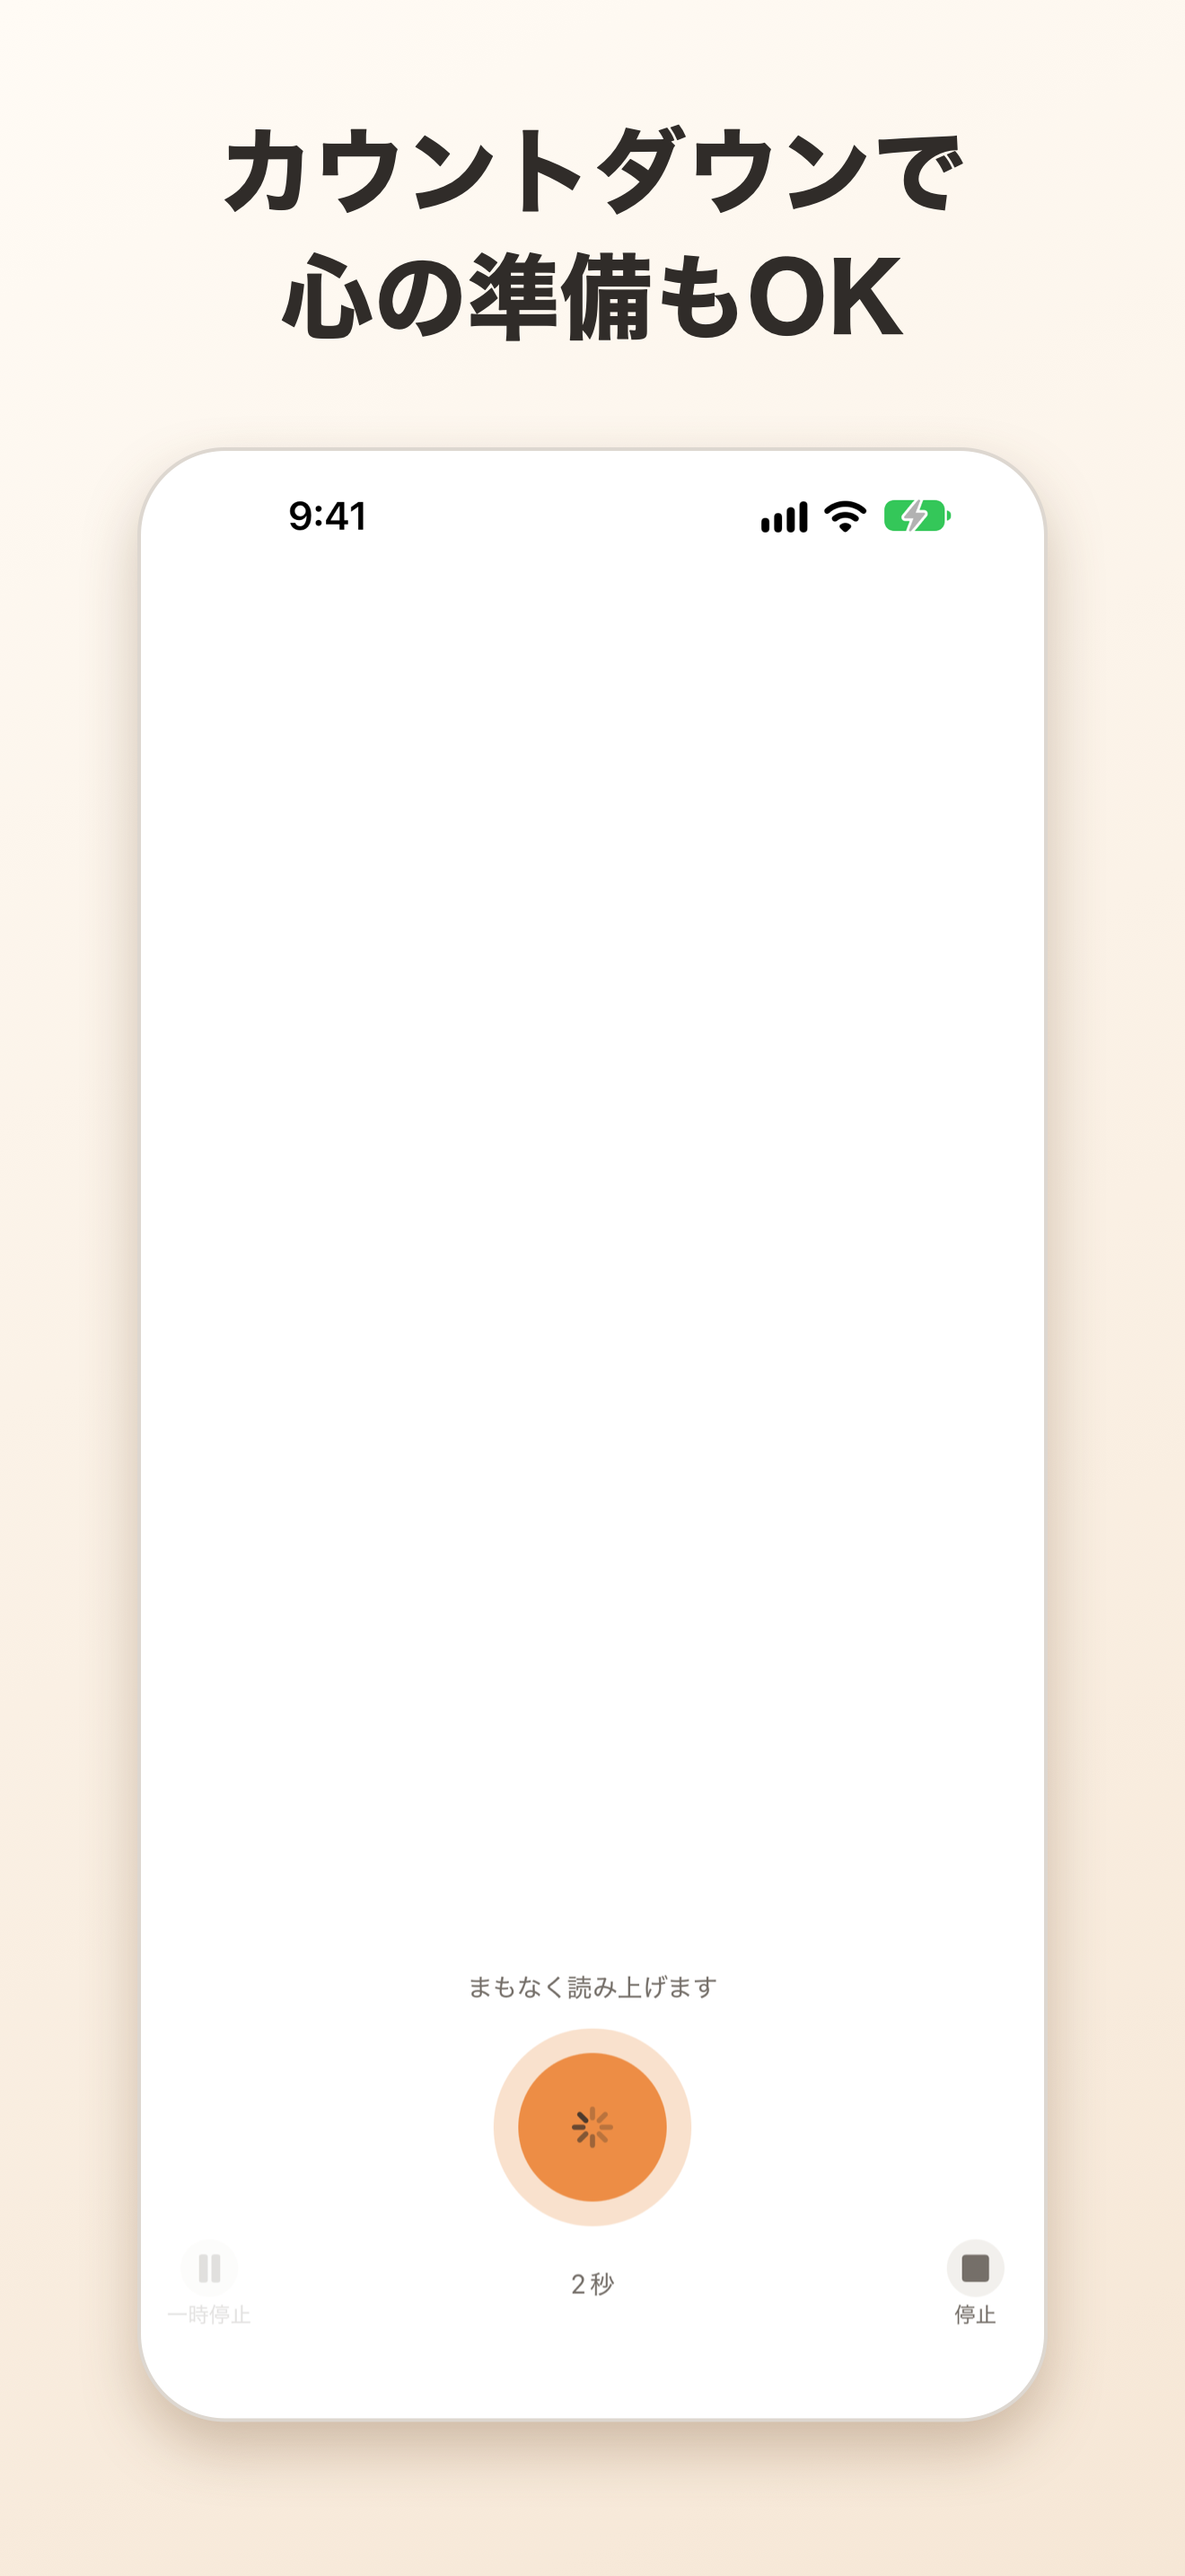
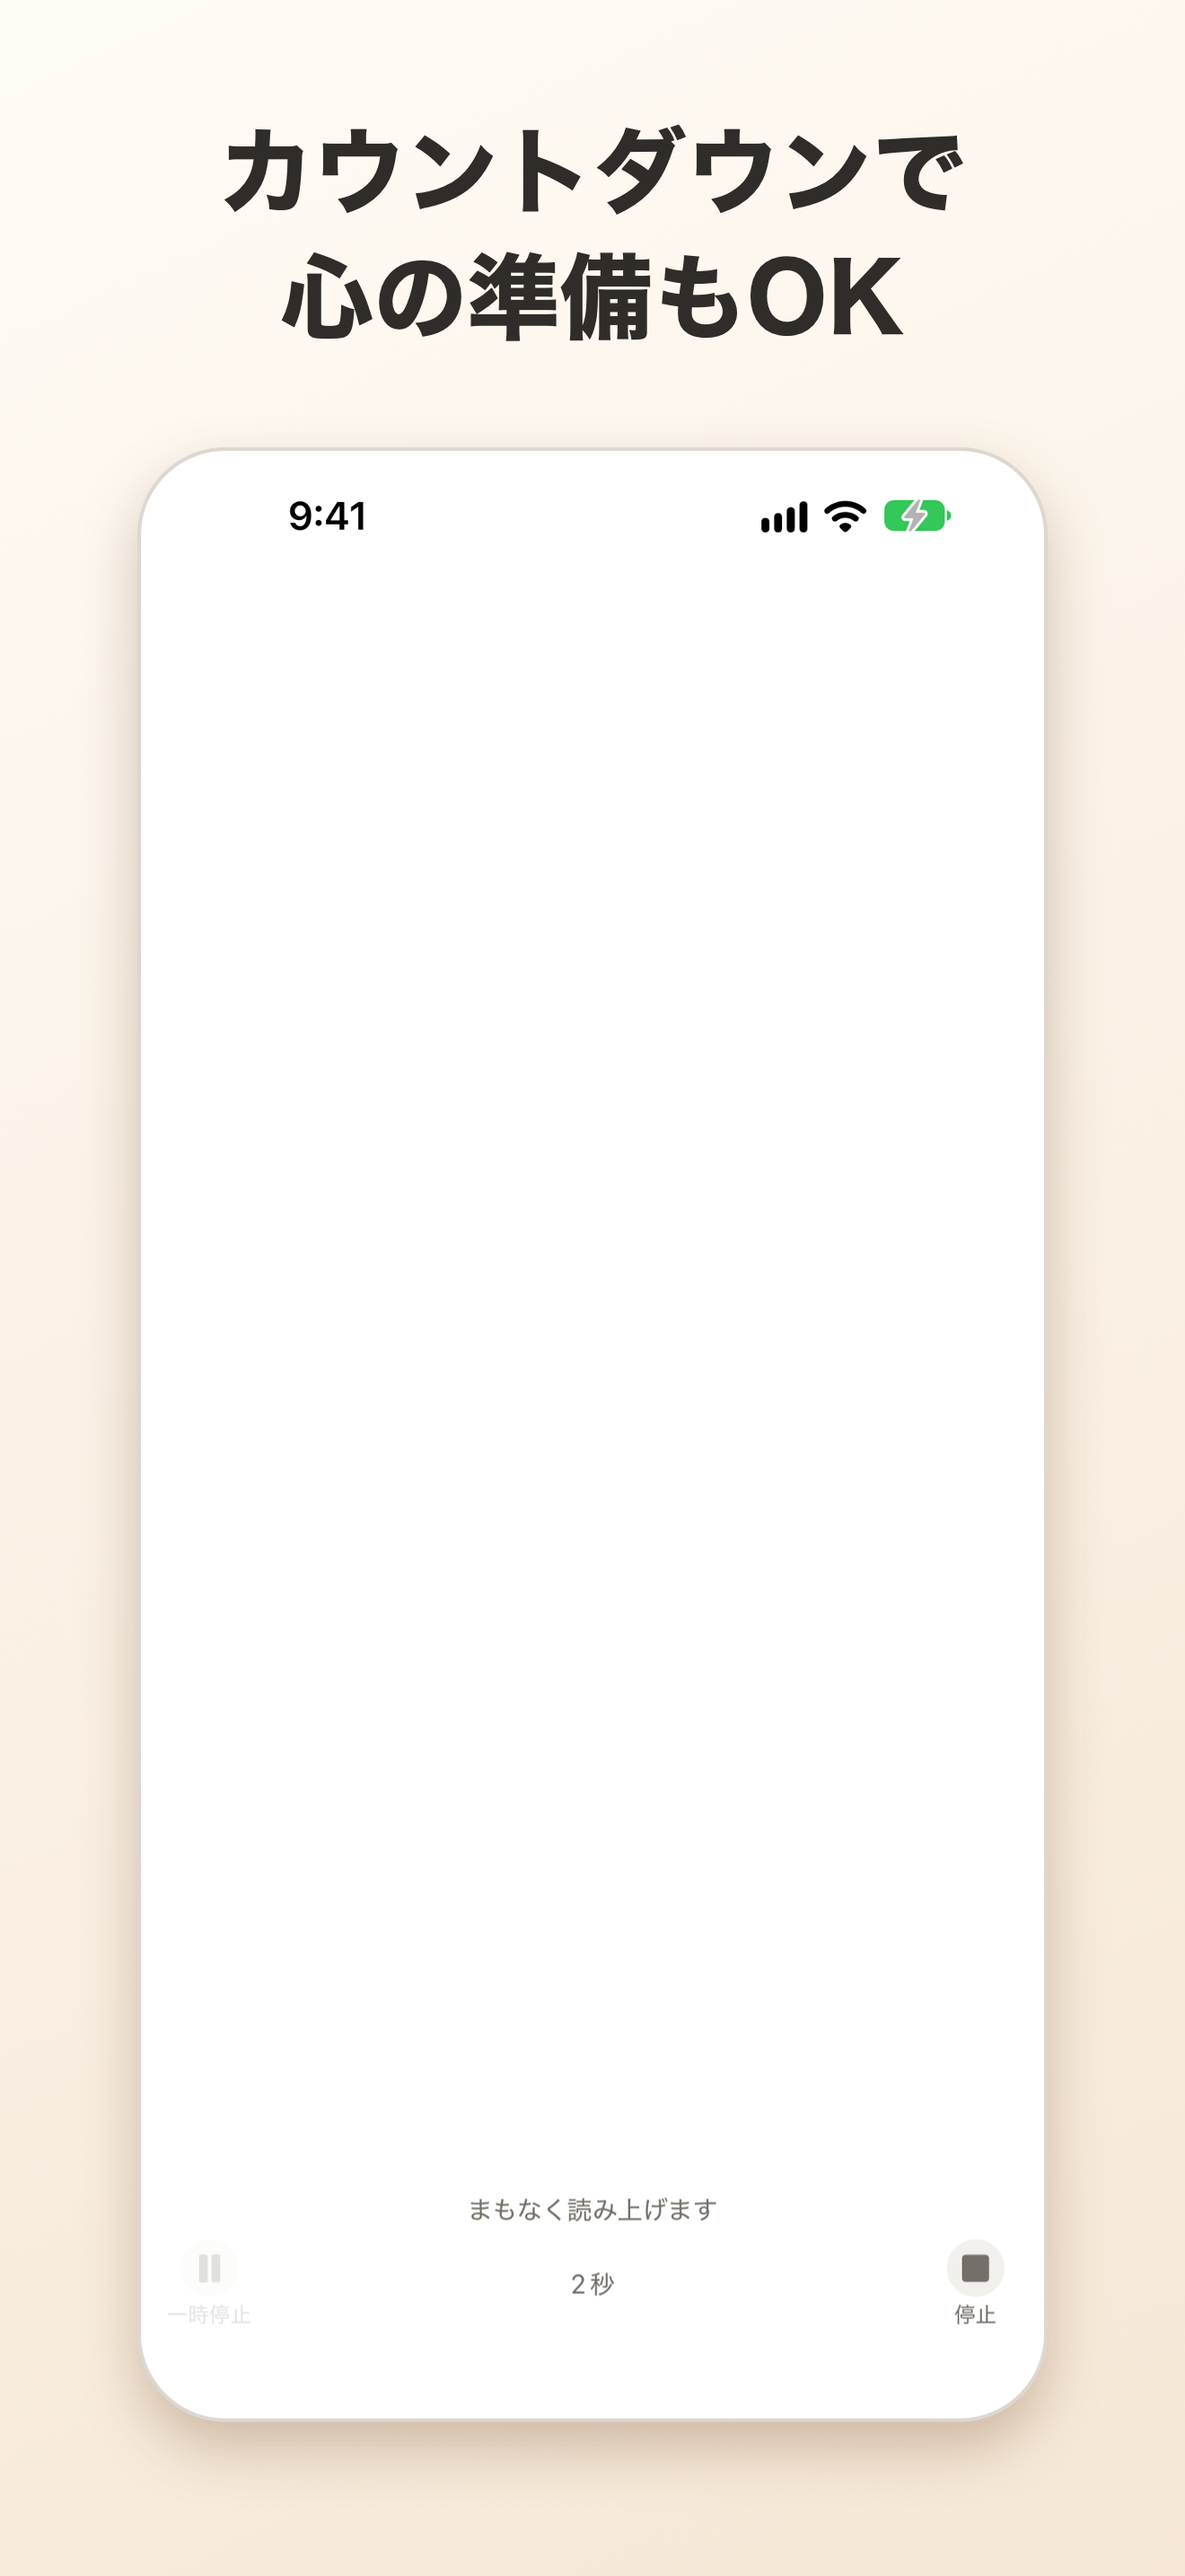
Store: 6.3-inch (1206x2622) screenshot set added, 6.9-inch set recaptured with the new playback layout; upload README updated

Changed region(s): [[0.4038, 0.7448, 0.5902, 0.8689], [0.4038, 0.7448, 0.4348, 0.7758]]

diff --git a/store/UPLOAD/README_UPLOAD.md b/store/UPLOAD/README_UPLOAD.md
@@ -1,18 +1,17 @@
 # アップロードするものはここにまとめてあります
 
-App Store Connect > 対象App > iOS App バージョン 1.0 > 「プレビューとスクリーンショット」→ **6.9インチ** を選んでアップロード。
+App Store Connect > 対象App > iOS App バージョン 1.0 > 「プレビューとスクリーンショット」。
+**サイズごとに別の欄**があります。審査には、次の **2つのサイズの両方**が必要です（App Store Connect のエラー表示に従う）:
 
-| 置き場所 | 何を | どこへ | 備考 |
+| 置き場所 | 画像サイズ | App Store Connect の欄 | 備考 |
 |---|---|---|---|
-| `1_screenshots-6.9in/` | 宣伝用スクリーンショット7枚 `01`〜`07`（1320×2868） | スクリーンショット欄（番号順にドラッグ） | **こちらを使う（おすすめ）** |
-| `1b_screenshots-plain-alternative/` | 画面そのままの7枚 | 同上 | 1 の代わり。**混ぜない** |
-| `2_app-preview/heydrum-app-preview-6.9in-886x1920.mp4` | アプリプレビュー動画（約21秒・886×1920・H.264・30fps・無音トラック付き） | 同じ画面の「アプリプレビュー」欄（スクリーンショットの左に最大3本） | 任意。実画面のスクリーンショットをつないだ紹介動画（ホーム→ドラム→入力→カウントダウン→**文字が読み上げに合わせて増えていく様子**→履歴→設定）。画面の録画ではなく静止画のつなぎです |
-| `3_iap-review/iap-review-settings.png` | 課金審査用スクリーンショット | アプリ内課金 > 商品 > 審査情報 | 必須（初回の課金） |
-| `4_icon-reference/app-icon-1024.png` | アイコン原本 | **アップロード不要**（ビルドに同梱済み） | 控え |
+| `1a_screenshots-6.9in/` | 1320×2868 | **6.9インチ**ディスプレイ | 宣伝用（文字入り）7枚。番号順 |
+| `1b_screenshots-6.3in/` | 1206×2622 | **6.3インチ**ディスプレイ（Dynamic Island搭載の中型） | 宣伝用（文字入り）7枚。番号順 |
+| `1c_plain-alternative-6.9in/`, `1d_plain-alternative-6.3in/` | 同上 | 同上 | 文字なし（画面そのまま）。1a/1b の代わり。**混ぜない** |
+| `2_app-preview/heydrum-app-preview-6.9in-886x1920.mp4` | 886×1920 | アプリプレビュー（6.9インチ欄） | 任意。**古い画面（中央ボタンあり）のまま**なので、使うなら撮り直しを推奨 |
+| `3_iap-review/iap-review-settings.png` | 1320×2868 | アプリ内課金 > 審査情報 | 必須（初回の課金） |
+| `4_icon-reference/app-icon-1024.png` | 1024×1024 | アップロード不要 | 控え |
 
-コピペ文言は `../submission-kit.html`（ブラウザで開く）。文面の元は `../APP_STORE_COPY.md`。
-
-メモ:
-- プレビュー動画は、シミュレータで撮った実画面のスクリーンショットをつないだものです。本物の画面録画にしたい場合は、実機の画面収録で同じ流れを撮ってください（App Preview は実機の動作を映す必要があります。審査で指摘されたら撮り直しを）。
-- iPad は非対応（iPhone専用）なので iPad 用の画像は不要。
-- 6.9インチ1サイズだけで、他の iPhone サイズには自動で使われます。
+- 6.5インチ・6.1インチ等の欄が別に出た場合は、6.9インチか6.3インチの画像を拡大縮小して使えるか確認される（出ない場合は不要）。
+- iPad は非対応（iPhone専用）なので不要。
+- コピペ文言は `../submission-kit.html`（ブラウザで開く）。
